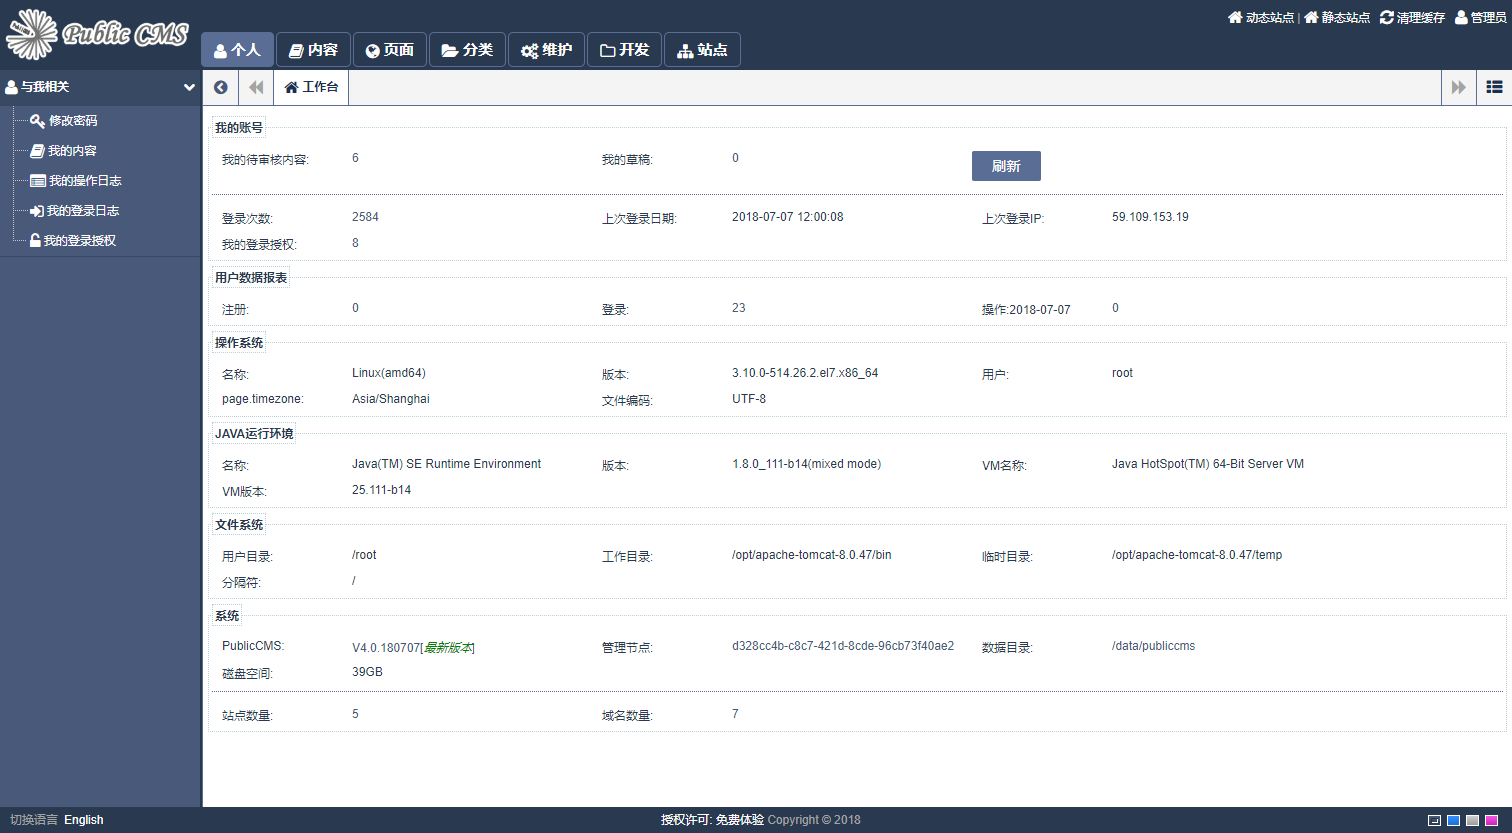
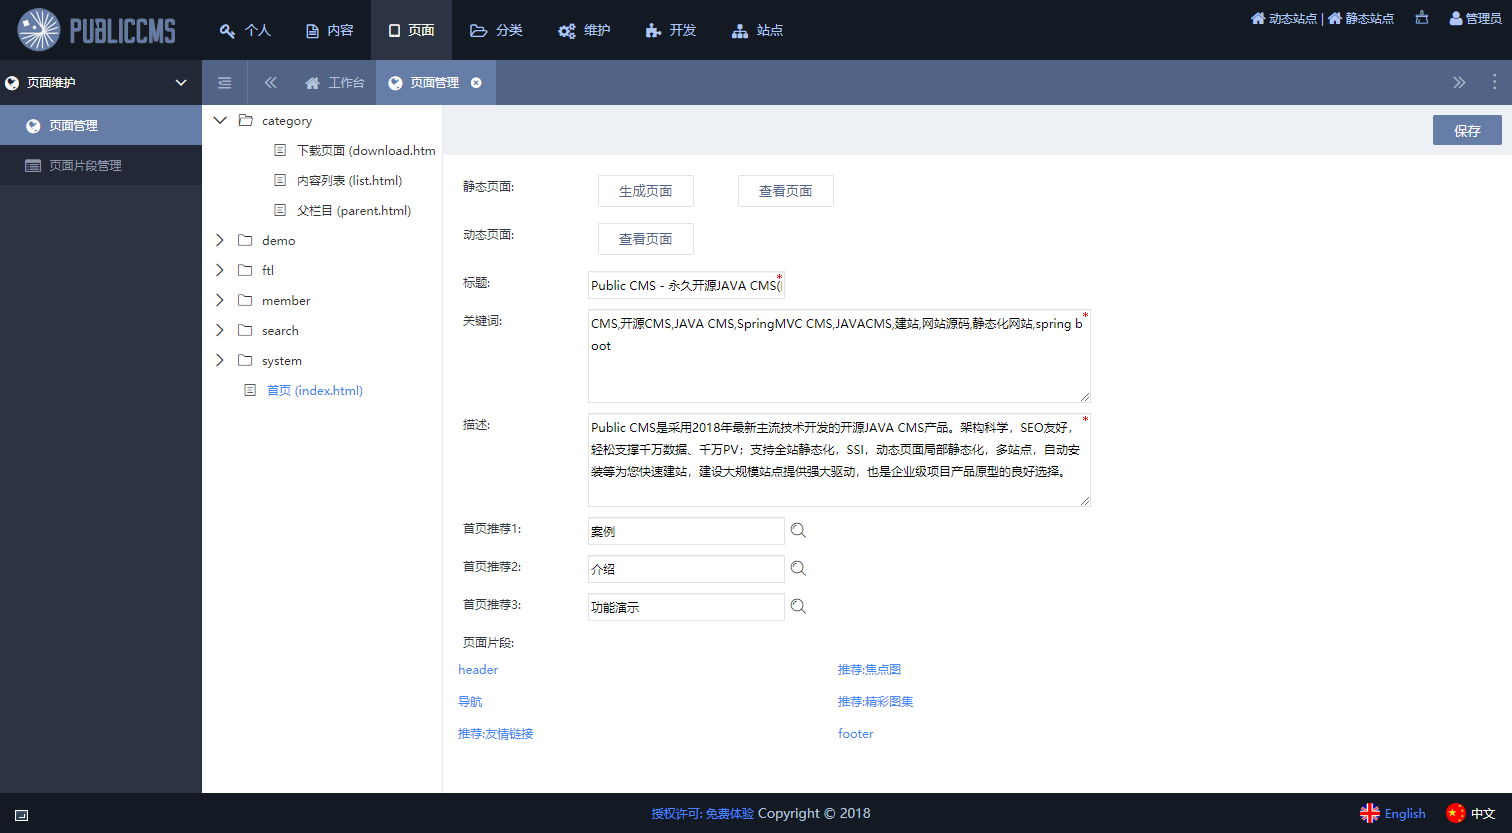
增加升级日志

diff --git a/Update History.md b/Update History.md
@@ -1,3 +1,50 @@
+### V4.0.180825
+
+框架升级
+
+jdk最低要求升级到1.8
+springboot升级为2.0.4
+
+程序功能修改
+
+1. 后台UI升级(新UI由同创蓝宇公司义务设计制作)
+1. 增加kindeditor编辑器
+1. 增加子站点功能
+1. 增加动态页面参数加密验证url规则
+1. 优先显示文件别名
+1. 增加elasticsearch配置引导
+1. 增加异步树实现
+1. 删除jsonp方式接口,增加跨域配置选项
+1. 将模板元数据与页面数据分开存储
+1. 搜索增加避免查询数据库的参数
+1. 增加邮件ssl选项
+1. 模板上传，网站文件上传改为多个文件上传
+1. 增加模板复制功能
+1. 文件解压增加编码选择
+1. 内存缓存增加超时处理
+1. 用户增加是否拥有全部权限功能
+1. app token,email token,user token改为有效日期方式
+1. 扩展字段类型增加视频类型
+1. 用户名昵称验证规则改为特殊字符过滤
+1. 第三方登录功能完善
+1. springboot方式启动增加真实scheme传递
+
+BUG与缺陷修复
+
+1. 对象比较用!=问题
+1. 删除测试数据中没用的分类
+1. LinkedProperties线程安全处理
+1. 临时目录被操作系统删除问题
+1. search指令categoryId参数无效问题
+1. 减少特定场景数据库访问
+1. 缓存模板增加内存锁
+1. 部门成员管理用户已有角色默认没勾选缺陷
+1. 演示账号安全问题
+1. 测试数据脚本错误
+1. 调大数据库连接池默认配置
+1. 邮件发送错误修复
+1. 内容选择页面标题查询无效BUG
+
 ### V4.0.180707
 
 框架升级

diff --git a/README.md b/README.md
@@ -1,6 +1,6 @@
 # PublicCMS V4.0.180707
 
-<a target="_blank" href="//shang.qq.com/wpa/qunwpa?idkey=89ffe8cd3abc04f6794965a330b0a278fdbc31f53e46fd5ee1c4f54ed43a6b28">交流群1群 191381542(已满)</a>
+<a target="_blank" href="//shang.qq.com/wpa/qunwpa?idkey=89ffe8cd3abc04f6794965a330b0a278fdbc31f53e46fd5ee1c4f54ed43a6b28">交流群1群 191381542(付费一元)</a>
 <a target="_blank" href="//shang.qq.com/wpa/qunwpa?idkey=088c921c4eb74328eef0192bac1e63c7228eb31b0524a373d40cdd907ddd2d3c">交流群2群 481589563</a>
 <a target="_blank" href="//shang.qq.com/wpa/qunwpa?idkey=8b1c7e07973d9f9553c0b8d5f8410107c02456bf6b4674dc7e4d113266ee8e03">交流群3群 638756883</a>
 
@@ -38,6 +38,7 @@ https://pan.baidu.com/s/1QIPaIhuASKC_16ZJ6v4SgQ 密码:eo4r
 
 * 编译运行
 
+保证操作系统中有jdk1.8及以上
 ```
 cd publiccms-parent
 mvnw clean package
